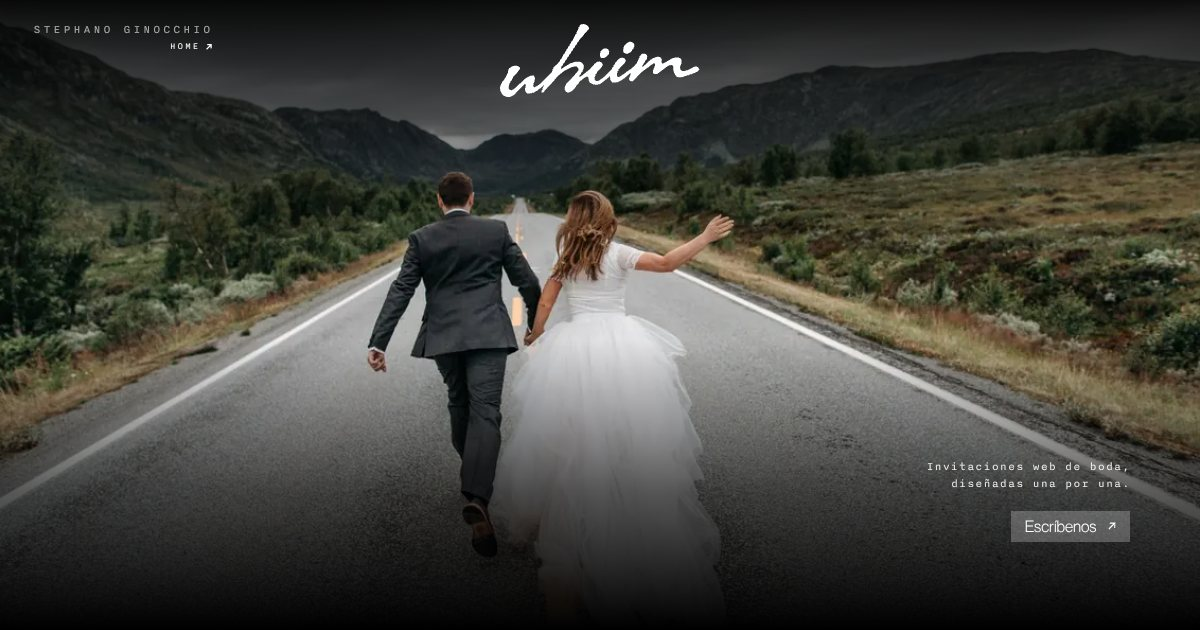
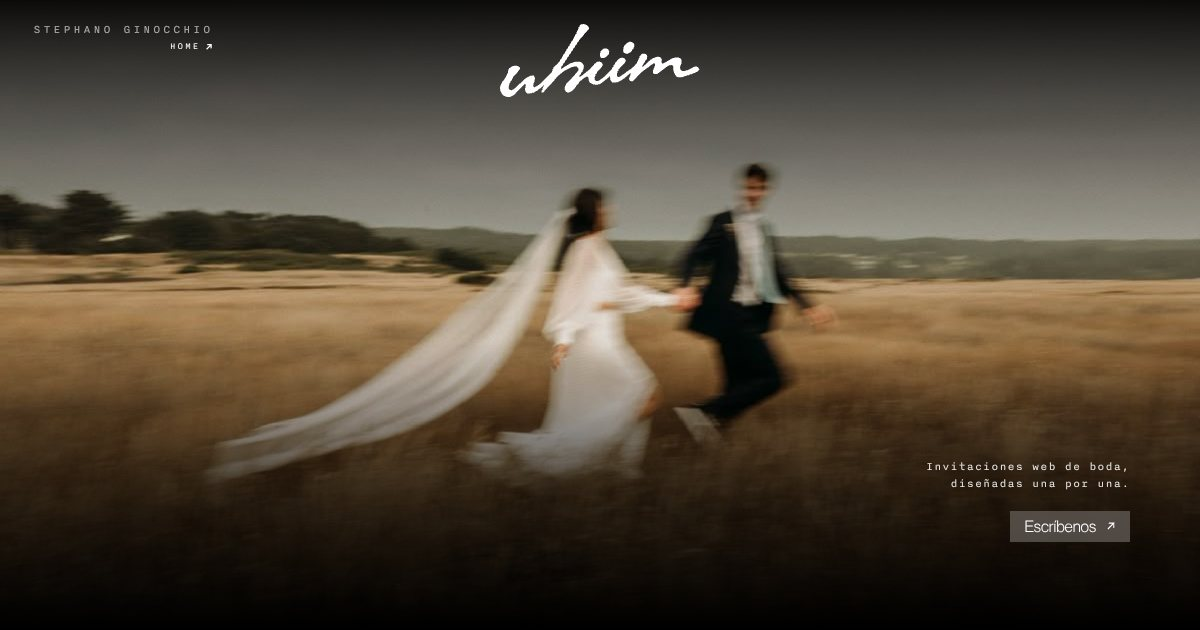
summary

diff --git a/whiim/index.html b/whiim/index.html
@@ -12,15 +12,15 @@
 <meta property="og:site_name" content="whiim">
 <meta property="og:title" content="whiim — invitaciones web de boda a medida">
 <meta property="og:description" content="Diseñadas una por una, sin plantillas. Lima, Perú.">
-<meta property="og:image" content="https://stephanoginocchio.github.io/assets/img/og/whiim.jpg">
-<meta property="og:url" content="https://stephanoginocchio.github.io/whiim/">
+<meta property="og:image" content="https://www.stephanoginocchio.com/assets/img/og/whiim.jpg">
+<meta property="og:url" content="https://www.stephanoginocchio.com/whiim/">
 <meta name="twitter:card" content="summary_large_image">
 
 <link rel="preconnect" href="https://use.typekit.net" crossorigin>
 <link rel="stylesheet" href="https://use.typekit.net/emb0tmp.css">
 <link rel="stylesheet" href="../assets/css/base.css">
 <link rel="stylesheet" href="../assets/css/whiim.css">
-<link rel="preload" as="image" href="../assets/img/whiim/hero.webp" imagesrcset="../assets/img/whiim/hero-1200.webp 1200w, ../assets/img/whiim/hero.webp 2400w" imagesizes="100vw">
+<link rel="preload" as="image" href="../assets/img/whiim/hero.webp" imagesrcset="../assets/img/whiim/hero-1200.webp 1222w, ../assets/img/whiim/hero.webp 2434w" imagesizes="100vw">
 <script>!function(d){if(!matchMedia('(prefers-reduced-motion: reduce)').matches){d.classList.add('anim');setTimeout(function(){if(!window.__sgReady)d.classList.remove('anim')},3500)}}(document.documentElement)</script>
 
 <script src="../data/config.js" defer></script>
@@ -40,9 +40,9 @@
   <section class="w-hero" aria-labelledby="w-title" data-parallax-root>
     <div class="w-hero__media" data-parallax="0.4">
       <img src="../assets/img/whiim/hero.webp"
-           srcset="../assets/img/whiim/hero-1200.webp 1200w, ../assets/img/whiim/hero.webp 2400w" sizes="100vw"
-           width="2400" height="1602" fetchpriority="high" decoding="async"
-           alt="Novios corriendo de la mano por una carretera entre montañas.">
+           srcset="../assets/img/whiim/hero-1200.webp 1222w, ../assets/img/whiim/hero.webp 2434w" sizes="100vw"
+           width="2434" height="1622" fetchpriority="high" decoding="async"
+           alt="Novios corriendo de la mano por un campo de pasto seco, con el velo al viento.">
     </div>
     <div class="w-hero__shade"></div>
     <h1 class="sr-only" id="w-title">whiim: invitaciones web de boda diseñadas a medida, en Lima, Perú</h1>
@@ -59,8 +59,8 @@
     <h2 class="t-h" id="intro-title" data-split>Su boda no se parece a otra.<br>Su invitación tampoco.</h2>
     <div class="w-intro__grid">
       <figure class="w-intro__img" data-reveal>
-        <img src="../assets/img/whiim/intro.webp" width="1000" height="1500" loading="lazy" decoding="async"
-             alt="Retrato de novios en blanco y negro: él con lentes oscuros, ella con velo.">
+        <img src="../assets/img/whiim/intro.webp" width="1001" height="1501" loading="lazy" decoding="async"
+             alt="El novio carga a la novia y se besan en un jardín, con el velo y el ramo en movimiento.">
       </figure>
       <div class="w-intro__body">
         <div class="t-mono t-justify" data-reveal>

diff --git a/index.html b/index.html
@@ -12,8 +12,8 @@
 <meta property="og:site_name" content="Stephano Ginocchio">
 <meta property="og:title" content="Stephano Ginocchio — Design, Vibecoding &amp; Product Vision">
 <meta property="og:description" content="Diseño visual, editorial y web desde Lima, Perú.">
-<meta property="og:image" content="https://stephanoginocchio.github.io/assets/img/og/stephano.jpg">
-<meta property="og:url" content="https://stephanoginocchio.github.io/">
+<meta property="og:image" content="https://www.stephanoginocchio.com/assets/img/og/stephano.jpg">
+<meta property="og:url" content="https://www.stephanoginocchio.com/">
 <meta name="twitter:card" content="summary_large_image">
 
 <link rel="preconnect" href="https://use.typekit.net" crossorigin>

diff --git a/portfolio.html b/portfolio.html
@@ -12,7 +12,7 @@
 <meta property="og:site_name" content="Stephano Ginocchio">
 <meta property="og:title" content="Portfolio — Stephano Ginocchio">
 <meta property="og:description" content="Proyectos de Stephano Ginocchio: invitaciones web, diseño editorial, identidad visual y Parallelo.">
-<meta property="og:image" content="https://stephanoginocchio.github.io/assets/img/og/stephano.jpg">
+<meta property="og:image" content="https://www.stephanoginocchio.com/assets/img/og/stephano.jpg">
 <meta name="twitter:card" content="summary_large_image">
 
 <link rel="preconnect" href="https://use.typekit.net" crossorigin>

diff --git a/profile.html b/profile.html
@@ -12,7 +12,7 @@
 <meta property="og:site_name" content="Stephano Ginocchio">
 <meta property="og:title" content="My Profile — Stephano Ginocchio">
 <meta property="og:description" content="Stephano Ginocchio, designer & developer web en Lima, Perú.">
-<meta property="og:image" content="https://stephanoginocchio.github.io/assets/img/og/stephano.jpg">
+<meta property="og:image" content="https://www.stephanoginocchio.com/assets/img/og/stephano.jpg">
 <meta name="twitter:card" content="summary_large_image">
 
 <link rel="preconnect" href="https://use.typekit.net" crossorigin>

diff --git a/404.html b/404.html
@@ -12,7 +12,7 @@
 <meta property="og:site_name" content="Stephano Ginocchio">
 <meta property="og:title" content="404 — Stephano Ginocchio">
 <meta property="og:description" content="Página no encontrada.">
-<meta property="og:image" content="https://stephanoginocchio.github.io/assets/img/og/stephano.jpg">
+<meta property="og:image" content="https://www.stephanoginocchio.com/assets/img/og/stephano.jpg">
 <meta name="twitter:card" content="summary_large_image">
 <meta name="robots" content="noindex">
 <link rel="preconnect" href="https://use.typekit.net" crossorigin>

diff --git a/whiim/boda.html b/whiim/boda.html
@@ -12,7 +12,7 @@
 <meta property="og:site_name" content="whiim">
 <meta property="og:title" content="Archivo de bodas — whiim">
 <meta property="og:description" content="Invitaciones web de boda diseñadas a medida. Lima, Perú.">
-<meta property="og:image" content="https://stephanoginocchio.github.io/assets/img/og/whiim.jpg">
+<meta property="og:image" content="https://www.stephanoginocchio.com/assets/img/og/whiim.jpg">
 <meta name="twitter:card" content="summary_large_image">
 
 <link rel="preconnect" href="https://use.typekit.net" crossorigin>

diff --git a/project.html b/project.html
@@ -12,7 +12,7 @@
 <meta property="og:site_name" content="Stephano Ginocchio">
 <meta property="og:title" content="Proyecto — Stephano Ginocchio">
 <meta property="og:description" content="Proyecto de Stephano Ginocchio.">
-<meta property="og:image" content="https://stephanoginocchio.github.io/assets/img/og/stephano.jpg">
+<meta property="og:image" content="https://www.stephanoginocchio.com/assets/img/og/stephano.jpg">
 <meta name="twitter:card" content="summary_large_image">
 
 <link rel="preconnect" href="https://use.typekit.net" crossorigin>

diff --git a/assets/css/whiim.css b/assets/css/whiim.css
@@ -61,7 +61,7 @@
   color: rgba(255, 255, 255, .9);
 }
 @media (max-width: 699px) {
-  .w-hero__media img { object-position: 45% 60%; }
+  .w-hero__media img { object-position: 57% 60%; }
   .w-hero__cta { left: var(--wpad); bottom: 56px; }
 }
 

diff --git a/README.md b/README.md
@@ -1,6 +1,6 @@
-# stephanoginocchio.github.io
+# www.stephanoginocchio.com
 
-Web personal de Stephano Ginocchio + whiim (invitaciones web de boda), hecha a partir de las maquetas de Illustrator. HTML, CSS y JavaScript sin frameworks; animaciones con GSAP.
+Web personal de Stephano Ginocchio + whiim (invitaciones web de boda), hecha a partir de las maquetas de Illustrator. HTML, CSS y JavaScript sin frameworks; animaciones con GSAP. Se publica con GitHub Pages desde el repositorio `stephanoginocchio.github.io`.
 
 ## Páginas
 
@@ -41,14 +41,32 @@ y entra a http://localhost:8000
 
 ## Publicar en GitHub Pages
 
-1. Crea un repositorio llamado exactamente **`stephanoginocchio.github.io`** (así la web queda en la raíz del dominio).
-2. Sube todo el contenido de esta carpeta, `.nojekyll` incluido.
+1. El repositorio se llama exactamente **`stephanoginocchio.github.io`**. No le cambies el nombre.
+2. Sube todo el contenido de esta carpeta, `.nojekyll` y `CNAME` incluidos.
 3. En el repositorio: Settings → Pages → Source: *Deploy from a branch* → `main` / `(root)`.
-4. En uno o dos minutos queda en https://stephanoginocchio.github.io y whiim en https://stephanoginocchio.github.io/whiim/
+4. En uno o dos minutos los cambios se ven en https://www.stephanoginocchio.com y whiim en https://www.stephanoginocchio.com/whiim/
 
 Si en vez de eso lo subes como proyecto (`usuario.github.io/otro-nombre/`), la página 404 deja de encontrar sus estilos, porque usa rutas que empiezan con `/`.
 
-Las vistas previas al compartir el link (WhatsApp, Instagram) usan `assets/img/og/stephano.jpg` y `assets/img/og/whiim.jpg`, con la dirección `https://stephanoginocchio.github.io/` escrita en el `<head>` de cada página. Si cambias de dominio, cámbiala ahí.
+## Dominio: www.stephanoginocchio.com
+
+Registrado en Spaceship el 12 de octubre de 2026, con renovación automática cada año. `stephanoginocchio.com` y `stephanoginocchio.github.io` redirigen solos a `www.stephanoginocchio.com`.
+
+- **No borres el archivo `CNAME`.** Es lo que le dice a GitHub cuál es tu dominio: si desaparece en un commit, la web vuelve a `github.io`. Antes de copiar archivos nuevos a la carpeta, haz *Pull origin* en GitHub Desktop.
+- **Registros DNS** (Spaceship → Advanced DNS → stephanoginocchio.com). Para la web van solo estos:
+
+  | Tipo | Host | Valor |
+  |---|---|---|
+  | A | `@` | `185.199.108.153` |
+  | A | `@` | `185.199.109.153` |
+  | A | `@` | `185.199.110.153` |
+  | A | `@` | `185.199.111.153` |
+  | CNAME | `www` | `stephanoginocchio.github.io` |
+  | TXT | `_github-pages-challenge-stephanoginocchio` | El código que da GitHub. No lo borres. |
+
+- El TXT verifica el dominio en GitHub (tu foto → Settings → Pages) e impide que otra cuenta publique una web con él.
+- No agregues registros comodín (`*`): dejan tus subdominios expuestos aunque el dominio esté verificado. Si algún día agregas correo con tu dominio, sus registros (MX y TXT) conviven con estos.
+- Las vistas previas al compartir el link (WhatsApp, Instagram) usan `assets/img/og/stephano.jpg` y `assets/img/og/whiim.jpg`, con la dirección `https://www.stephanoginocchio.com/` escrita en el `<head>` de cada página. Si cambias la portada de whiim, conviene rehacer `whiim.jpg` (1200 × 630 px).
 
 ## Tipografías
 
@@ -71,7 +89,7 @@ Tu hero está diseñado en **65 Medium**, que el kit no trae. Mientras no lo agr
 
 Fotos de [Pexels](https://www.pexels.com/license/), uso libre sin atribución obligatoria. IDs:
 
-- whiim: portada 7119286, intro 32778169
+- whiim: portada e intro por confirmar (las cambiaste por fotos nuevas; anota aquí de dónde son)
 - Lucía & Mateo: 12341927, 6968988, 18856007, 31724460, 26673763
 - Valeria & Diego: 18079000, 20091878, 10673499, 14000811, 8669256
 - Camila & Joaquín: 8693631, 7907264, 4661209, 3714427, 15784736
